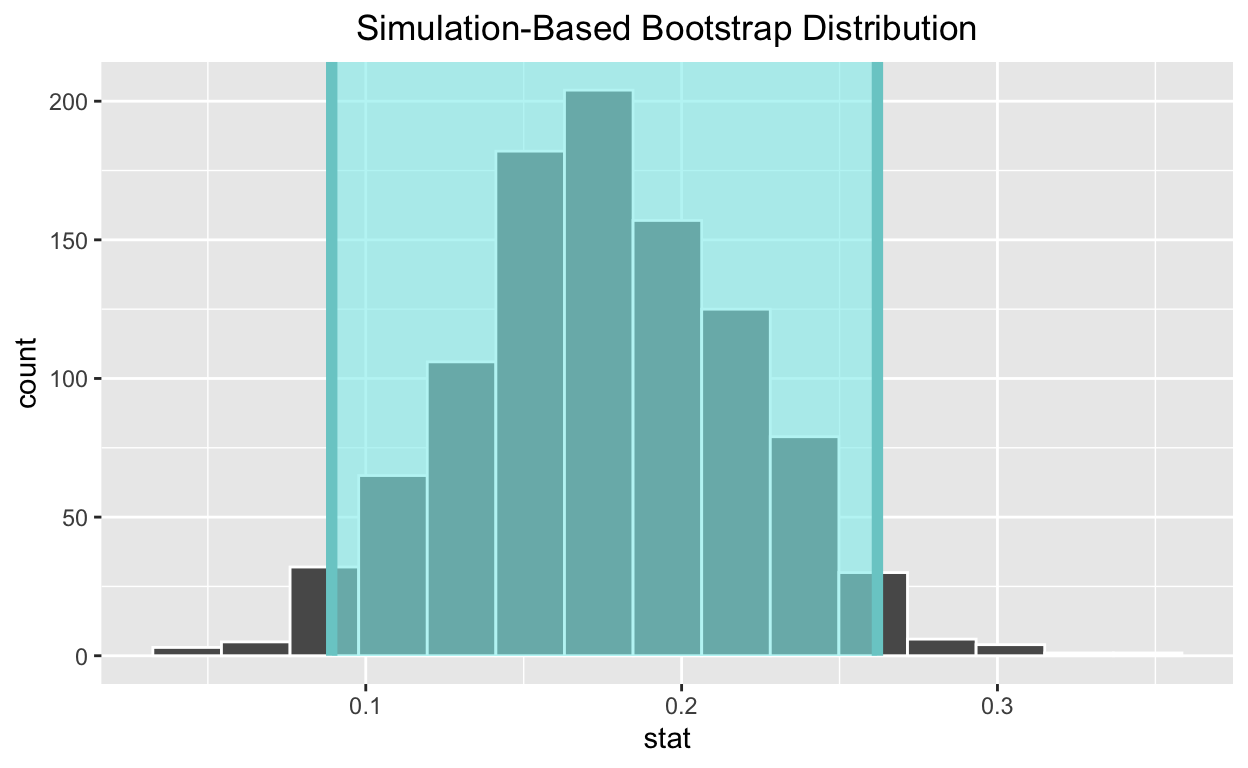
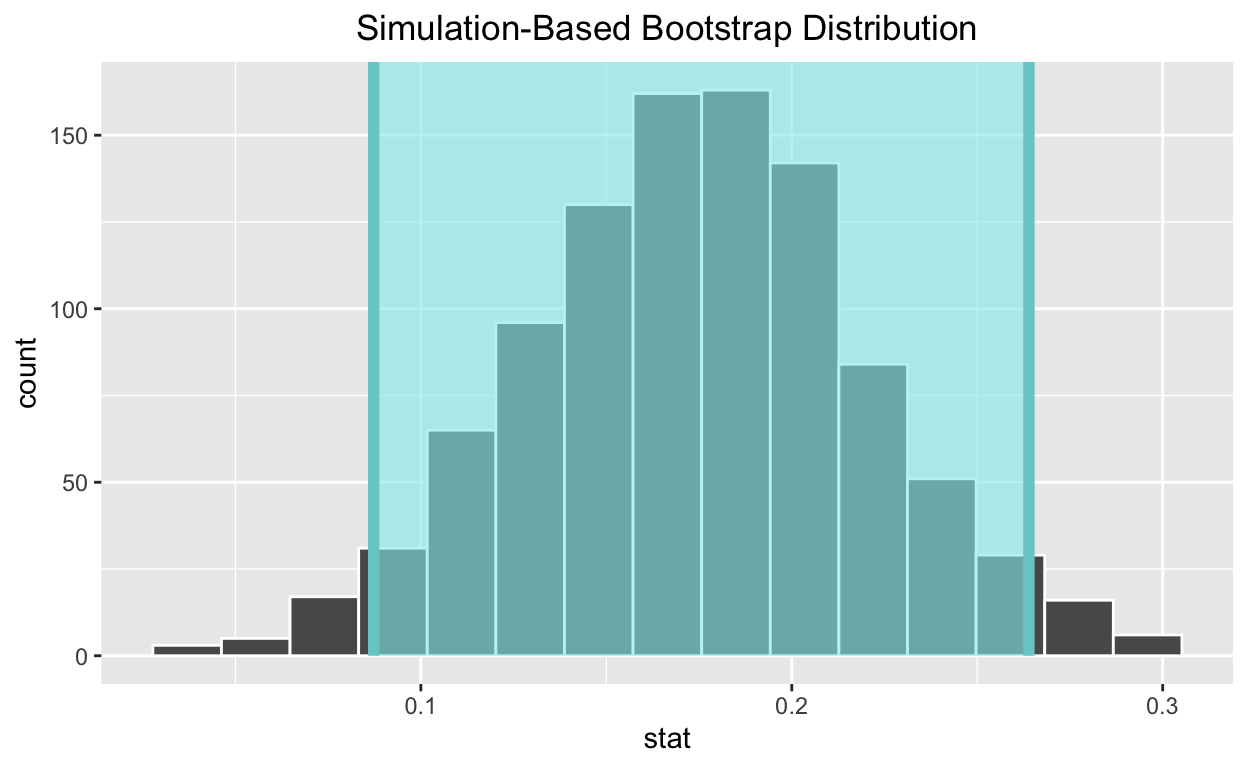
everything?

diff --git a/index.html b/index.html
@@ -1656,7 +1656,7 @@ Explanatory: habit_binary (numeric)
 <pre><code># A tibble: 1 × 1
   p_value
     &lt;dbl&gt;
-1   0.001</code></pre>
+1       0</code></pre>
 </div>
 <h4 id="interpretation-of-the-p-value-for-preemie">Interpretation of the P-Value for Preemie</h4>
 <p>The P value is 0.001. This is highly statistically significant and tells us that observing a correlation statistic of 0.1058123 or more extreme is very unlikely under the null hypothesis.Therefore, there is evidence to support the alternative hypothesis that there is positive correlation between smoking habits and the likelihood of premature birth, and we can reject the null hypothesis.</p>
@@ -1675,7 +1675,7 @@ Explanatory: habit_binary (numeric)
 <pre><code># A tibble: 1 × 2
   lower_ci upper_ci
      &lt;dbl&gt;    &lt;dbl&gt;
-1   0.0299    0.182</code></pre>
+1   0.0312    0.180</code></pre>
 </div>
 <div class="layout-chunk" data-layout="l-body">
 <div class="sourceCode">
@@ -1859,7 +1859,7 @@ Explanatory: habit_binary (numeric)
 <pre><code># A tibble: 1 × 2
   lower_ci upper_ci
      &lt;dbl&gt;    &lt;dbl&gt;
-1   0.0856    0.266</code></pre>
+1   0.0873    0.264</code></pre>
 </div>
 <div class="layout-chunk" data-layout="l-body">
 <div class="sourceCode">
